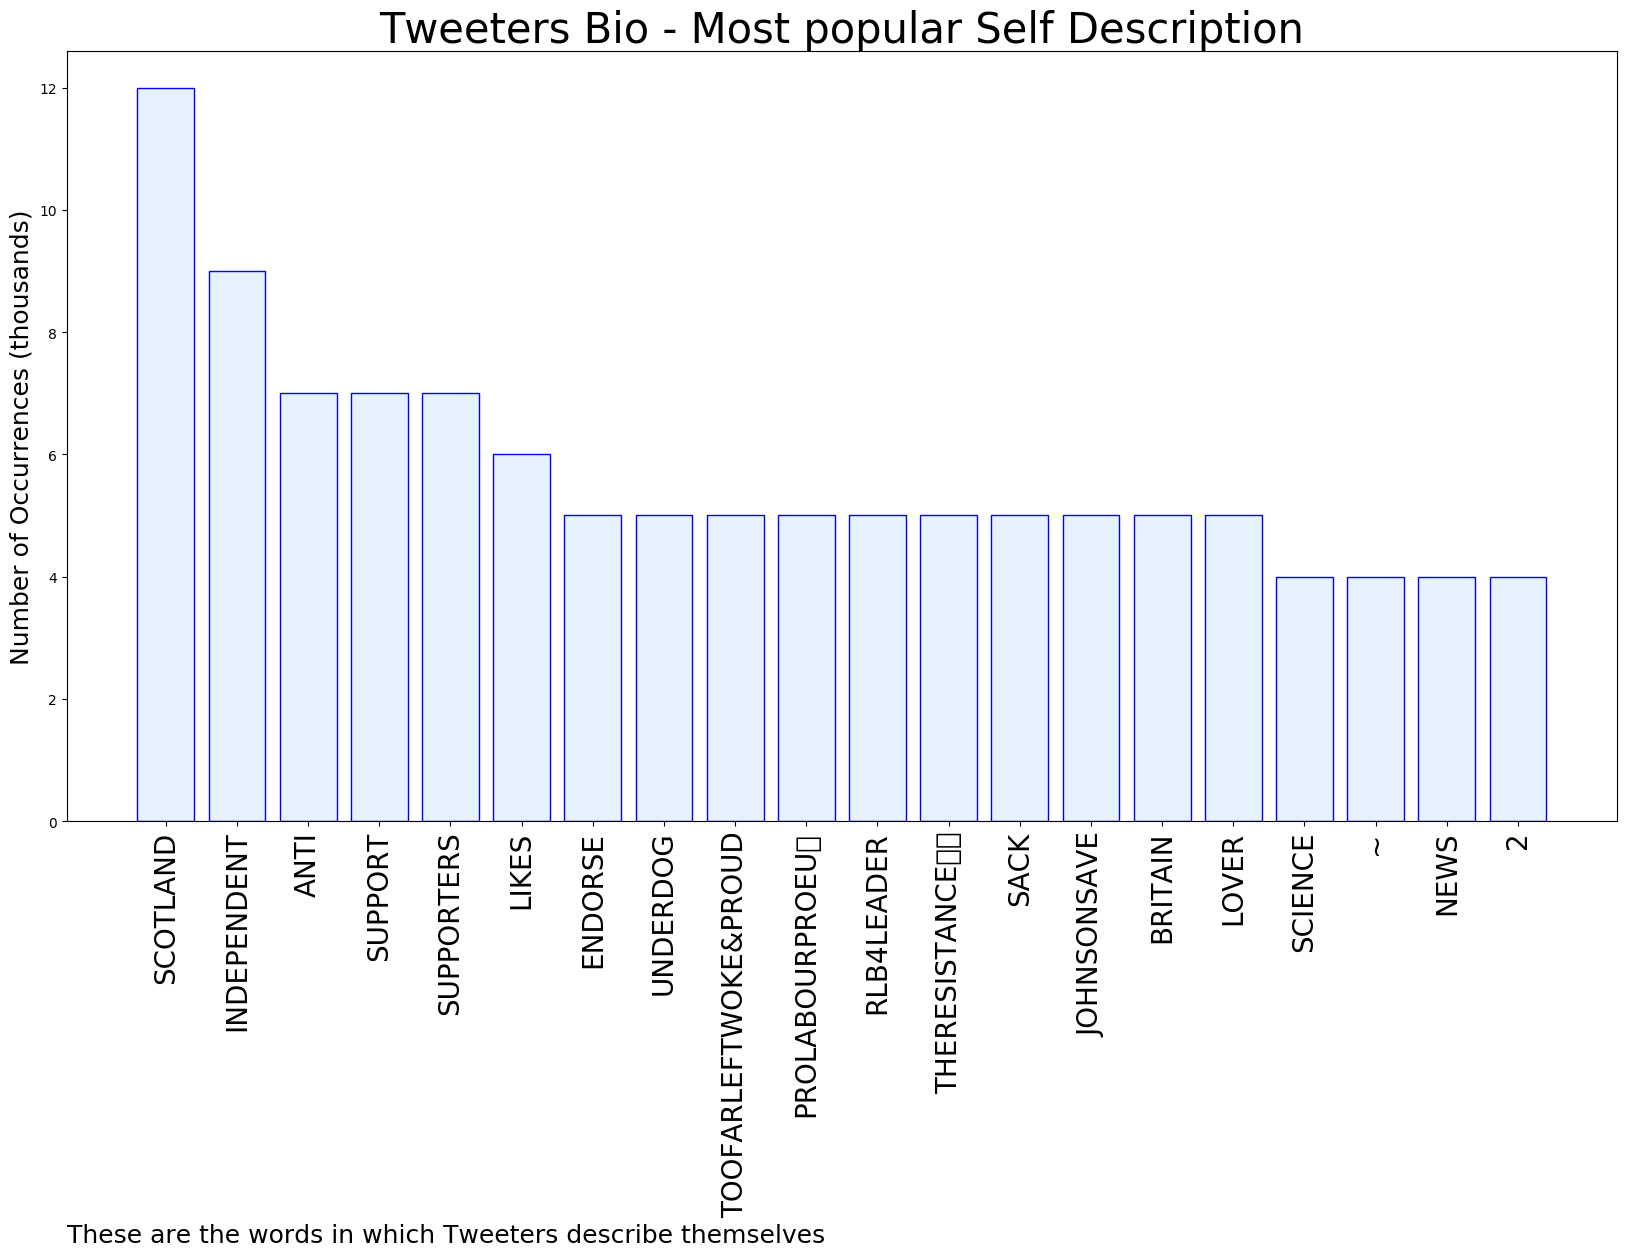
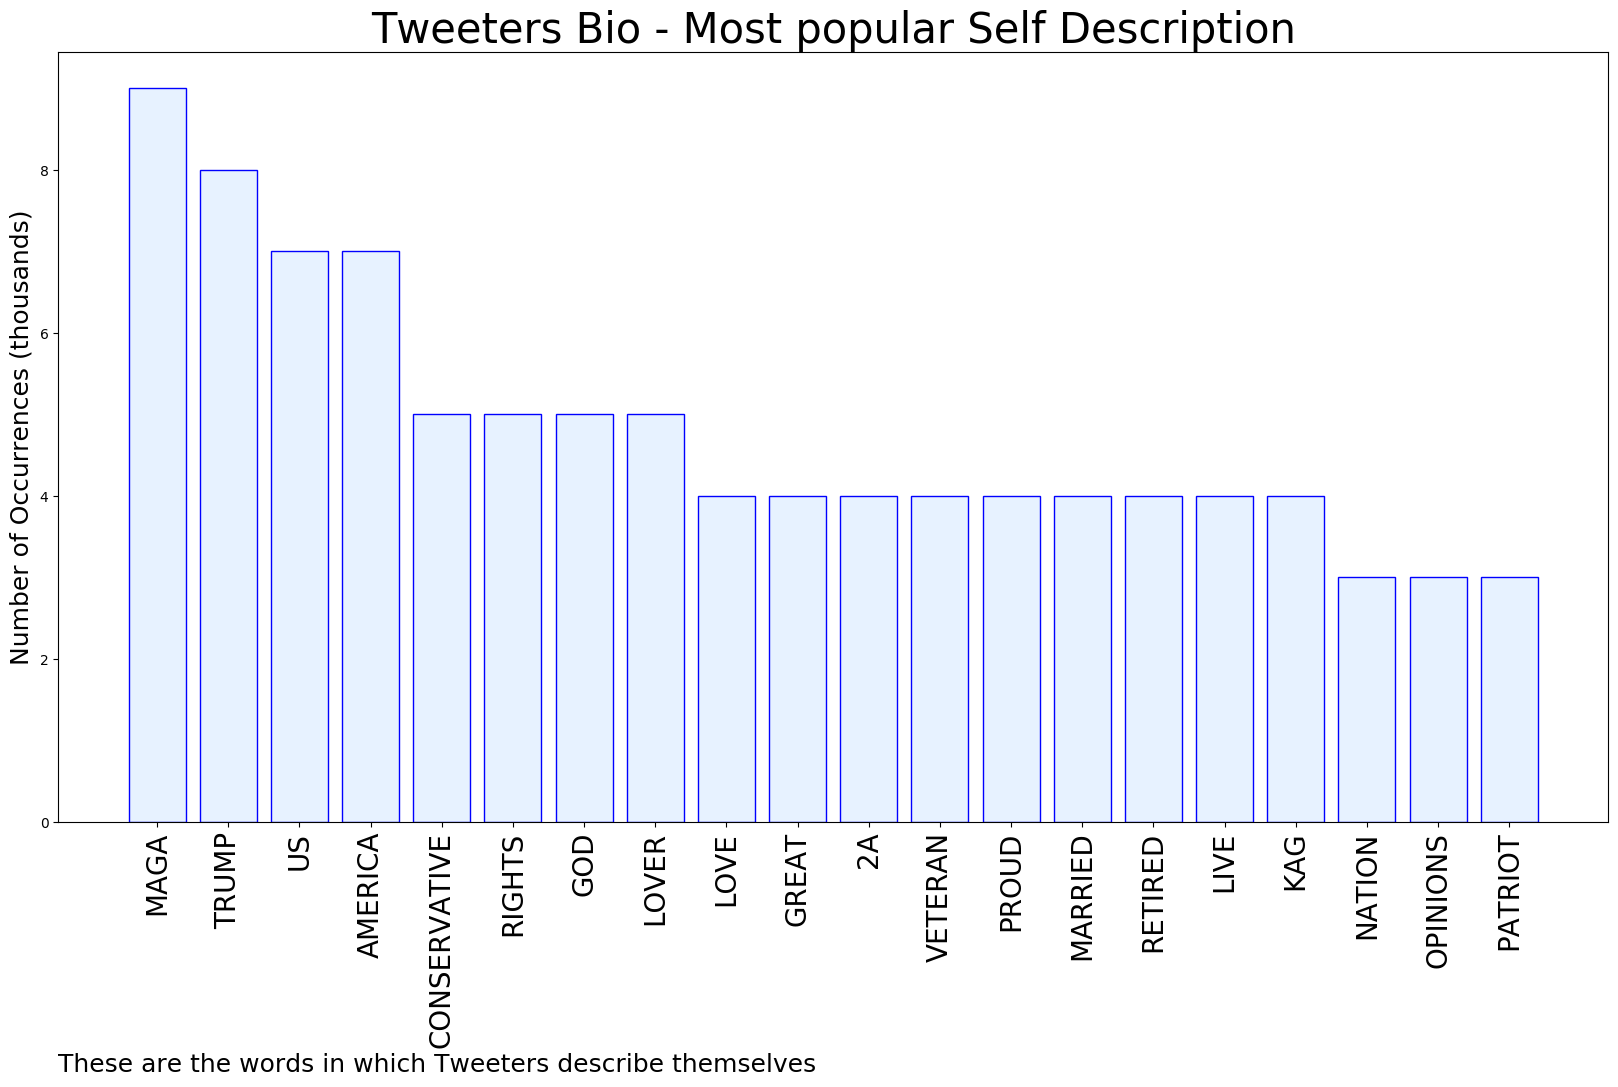
more

diff --git a/README.md b/README.md
@@ -1,5 +1,5 @@
 # MURCHIE85 TWITTER PROCESSING 
-&#x1F34E; **TOPIC = "Trident"**
+&#x1F34E; **TOPIC = "Russia"**
 
 ## AUTOMATED RESEARCH SUMMARY
 
@@ -15,17 +15,21 @@
 
 |                **Sample-Tweets**        |
 | :-------------: |
-| <div class="alert alert-block alert-warning">RT @GreenPartyMolly: Pentagon reveals deal with Britain to replace Trident before MPs are consulted or even informedThis is how it feels…</div> <div class="alert alert-block alert-success">RT @NatashaJahnse: When was this agreed to?We really are America's lapdog now. So much for being in control!🙄#BrexitRealityPentagon rev…</div> <div class="alert alert-block alert-info">RT @GreenPartyMolly: Pentagon reveals deal with Britain to replace Trident before MPs are consulted or even informedThis is how it feels…</div> |
-The most popular user is: **TinaWight2**
-<div class="alert alert-block alert-danger"> RT @Mandoline_Blue: Pentagon officials are saying that Trident is to be replaced with a new generation of nuclear warheads using US technol…</div>
+| <div class="alert alert-block alert-warning">RT @BEVHOWARD40: Nunes vows to sue over report on briefing https://t.co/z6LiddCwTf</div> <div class="alert alert-block alert-success">Who loves to "RUSSIA RUSSIA RUSSIA"???They are the communists. They are the traitors. Who gives a F 'bout russia.… https://t.co/Gj73kBpjKB</div> <div class="alert alert-block alert-info">Russia Working To Boost Bernie Sanders’ Campaign, According To Sanders’ ... https://t.co/4agTRjBG8S via @YouTube</div> |
+The most popular user is: **H47Steven**
+<div class="alert alert-block alert-danger"> RT @charliekirk11: Did you know:
+
+Russia donated over $145,000,000 to the Clinton Foundation
+
+Hillary Clinton sold 20% America’s Uranium to…</div>
 
 ## RELATED METRICS<br>
 | Metric | Value |
 | ------------- | ------------- |
-| #1 Most tweeted to  | **Mandoline_Blue** |
-| #2 Most tweeted to  | **ShoebridgeC** |
-| #3 Most tweeted to  | **GreenPartyMolly** |
-| NewProfiles (less than 10 days) | 0.0%  |
+| #1 Most tweeted to  | **realDonaldTrump** |
+| #2 Most tweeted to  | **charliekirk11** |
+| #3 Most tweeted to  | **DevinNunes** |
+| NewProfiles (less than 10 days) | 1.0%  |
 | Tweeters with < 10 followers  | 3.0%|
 | Tweeters with > 1000000 followers  | 0.0%  |
 
@@ -34,30 +38,32 @@ The most popular user is: **TinaWight2**
 <br>
 | Popularity Rank  | Term |
 | ------------- | ------------- |
-| first  | **TRIDENT**  |
-| second  | **PENTAGON**  |
-| third  | **US** |
-| fourth  | **REVEALS**  |
-| fifth  | **NUCLEAR**  |
+| first  | **RUSSIA**  |
+| second  | **BERNIE**  |
+| third  | **TRUMP** |
+| fourth  | **SANDERS**  |
+| fifth  | **AMERICAN**  |
 
 
 ## Twitter Bio Analysis![image](BIO.png)
 ### SENTIMENT ANALYSIS
 ![image](sentiment.png)
-VIEWS WERE : **SUBJECTIVE**  (33.33%) & **NEGATIVELY-SUBJECTIVE** (20.0%) **OBJECTIVE** (46.67%)
+VIEWS WERE : **SUBJECTIVE**  (40.0%) & **NEGATIVELY-SUBJECTIVE** (26.67%) **OBJECTIVE** (33.33%)
 
 ### TWEET SAMPLE 
 Random value picked from array: 
 
-<div class="alert alert-block alert-info">RT @GreenPartyMolly: Pentagon reveals deal with Britain to replace Trident before MPs are consulted or even informed
-
-This is how it feels…</div>
+<div class="alert alert-block alert-info">RT @BEVHOWARD40: Nunes vows to sue over report on briefing https://t.co/z6LiddCwTf</div>
 
 ### MOST RETWEETED 
 
-The most retweeted user is: **TinaWight2**
+The most retweeted user is: **H47Steven**
 
-<div class="alert alert-block alert-danger"> RT @Mandoline_Blue: Pentagon officials are saying that Trident is to be replaced with a new generation of nuclear warheads using US technol…</div>
+<div class="alert alert-block alert-danger"> RT @charliekirk11: Did you know:
+
+Russia donated over $145,000,000 to the Clinton Foundation
+
+Hillary Clinton sold 20% America’s Uranium to…</div>
 
 ### CONCLUSION & EXTERNAL ANALYSIS
 
